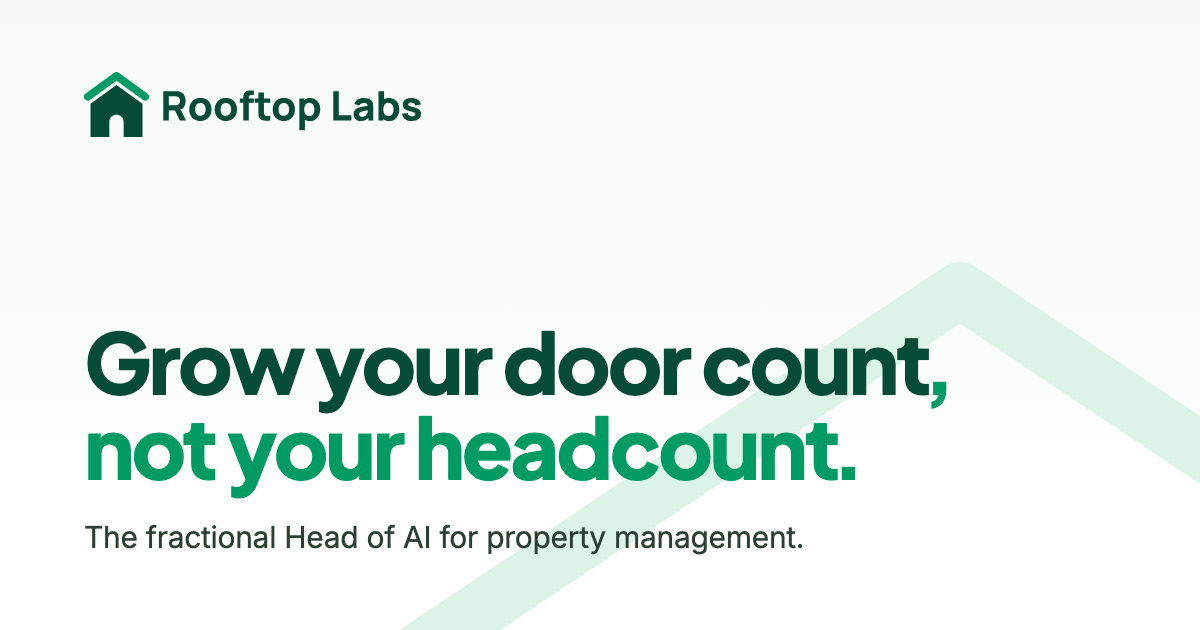
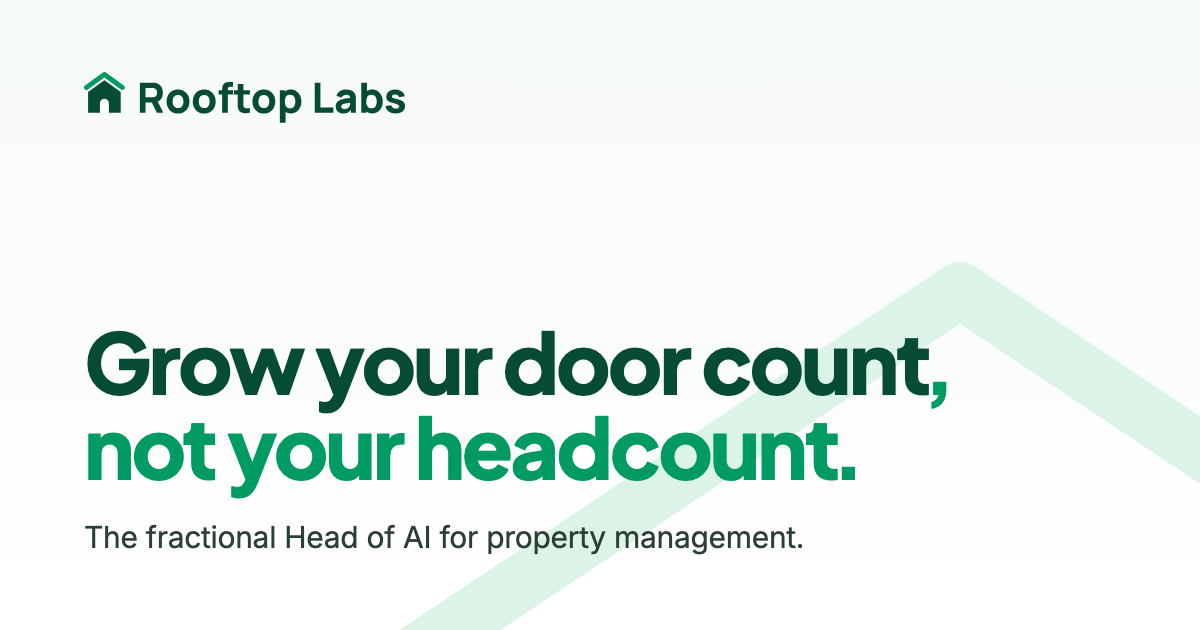
Match the horizontal lockup to the approved reference
Scale the official wordmark so its capitals are about 74% of the icon's
height, with the baseline on the base of the house, as in the approved
reference. The viewBox spans the icon's height and the "p" descender
hangs below through overflow: visible, so layouts still center on the
icon and capitals. A pixel overlay against the reference differs only
at antialiased edges (0.2% of pixels).

Header, footer, and share-image sizes keep the name at a similar
rendered size. brand/site/ carries the updated SVGs.

Changed region(s): [[0.0617, 0.1206, 0.37, 0.2413]]

diff --git a/brand/site/README.md b/brand/site/README.md
@@ -1,6 +1,6 @@
 # Site lockup
 
-The horizontal lockup the website uses. It re-sets the official wordmark
-against the icon: the capitals are 45% of the icon's height (the source file
-uses 48%) and sit centered just below the icon's midpoint, so the name no longer
-rides high. `src/components/Logo.astro` renders the same geometry.
+The horizontal lockup the website uses, matching the approved reference. The
+official wordmark is scaled so its capitals are about 74% of the icon's height,
+with the baseline on the base of the house and the "p" descender hanging below.
+`src/components/Logo.astro` renders the same geometry.
